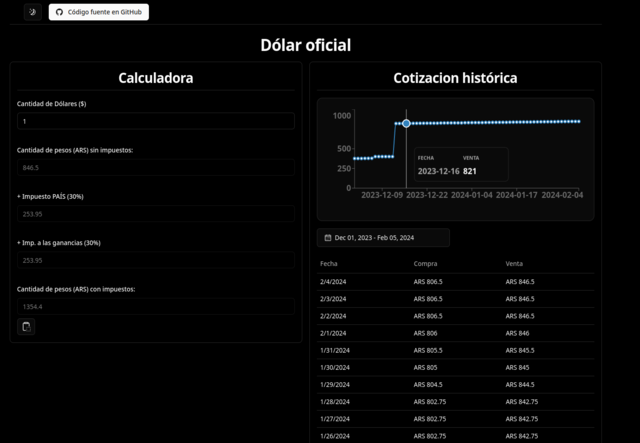
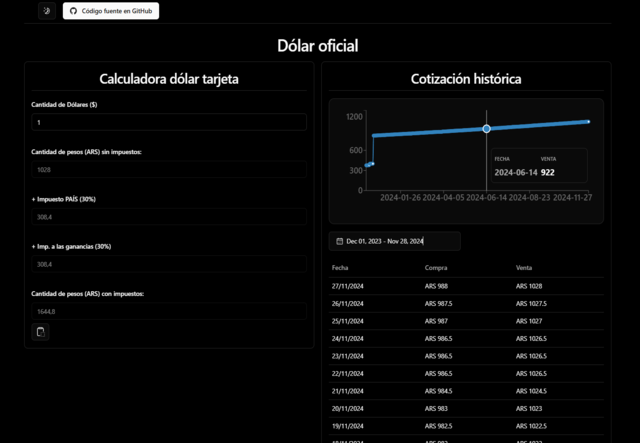
✏chore: update featured projects

diff --git a/config/site-config/projects.ts b/config/site-config/projects.ts
@@ -39,9 +39,9 @@ export const projects: Project[] = [
   {
     image: "/images/projects/dollar-calc.png",
     title: "Dollar",
-    desc: "Currency converter app: 'Official Dollar' to 'ARS (Pesos Argentinos)' & historic prices.",
+    desc: "'Official Dollar' to 'ARS (Pesos Argentinos)' historic prices & 'Dólar Tarjeta' calculator",
     repo: "https://github.com/juliancasaburi/dollar",
-    preview: null,
+    preview: "https://juliancasaburi.github.io/dollar/",
     tags: [
       { name: "Javascript"},
       { name: "React"},
